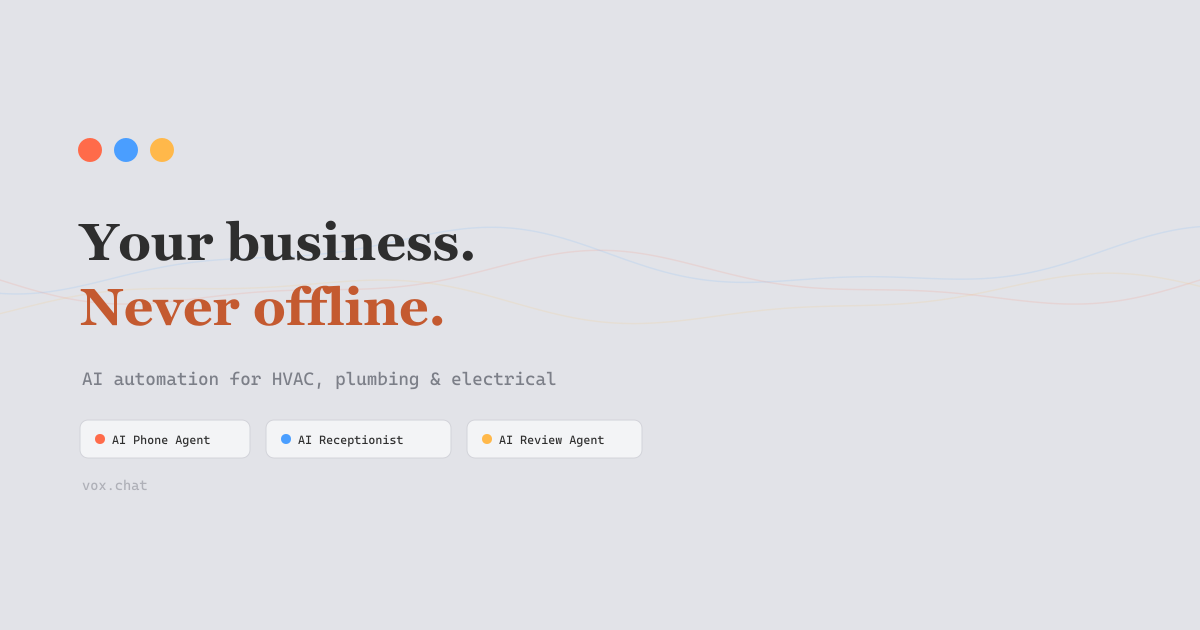
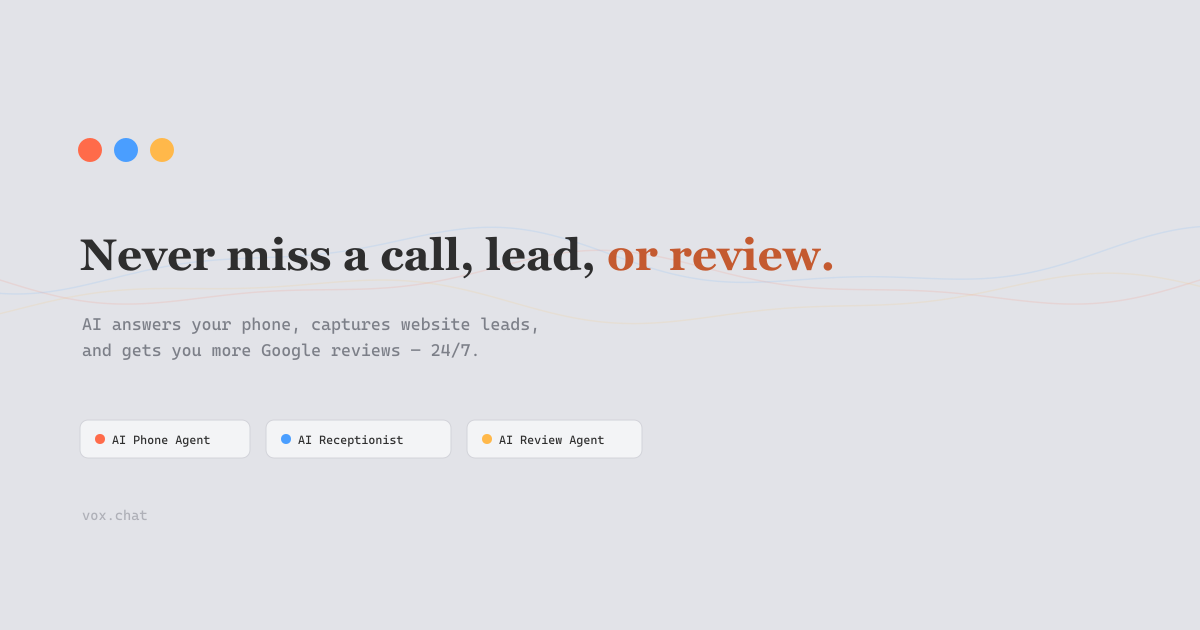
update og and x header with new hero message

Changed region(s): [[0.0617, 0.3317, 0.7092, 0.6333], [0.0925, 0.8143, 0.1233, 0.8444], [0.0925, 0.754, 0.1233, 0.7841]]

diff --git a/src/App.tsx b/src/App.tsx
@@ -116,8 +116,7 @@ function Hero() {
               <span className="leading-none text-left">AI automation for HVAC, plumbing &amp; electrical</span>
             </div>
             <h1 className="font-serif text-4xl sm:text-5xl lg:text-6xl font-bold tracking-tight leading-[1.08] mb-5">
-              Never miss a call, lead,<br />
-              <span className="text-primary">or review.</span>
+              Never miss a call, lead, <span className="text-primary">or review.</span>
             </h1>
             <p className="text-muted-foreground text-lg max-w-lg leading-relaxed mb-8 mx-auto lg:mx-0">
               AI answers your phone, captures website leads, and gets you more Google reviews — 24/7. Built for contractors.